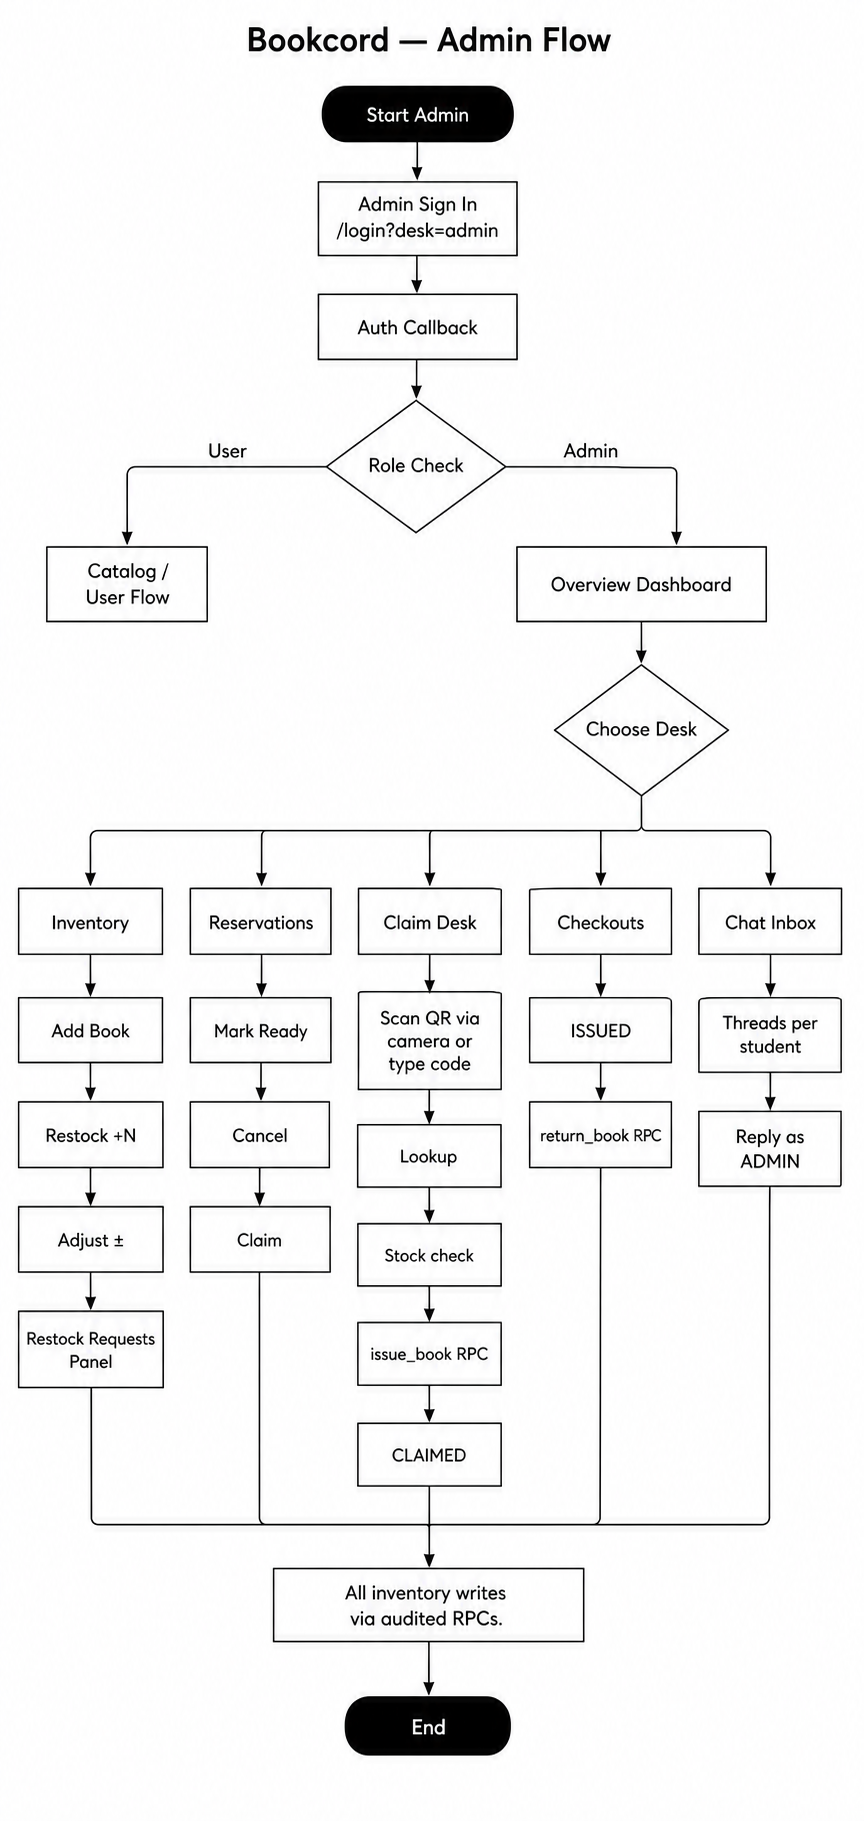
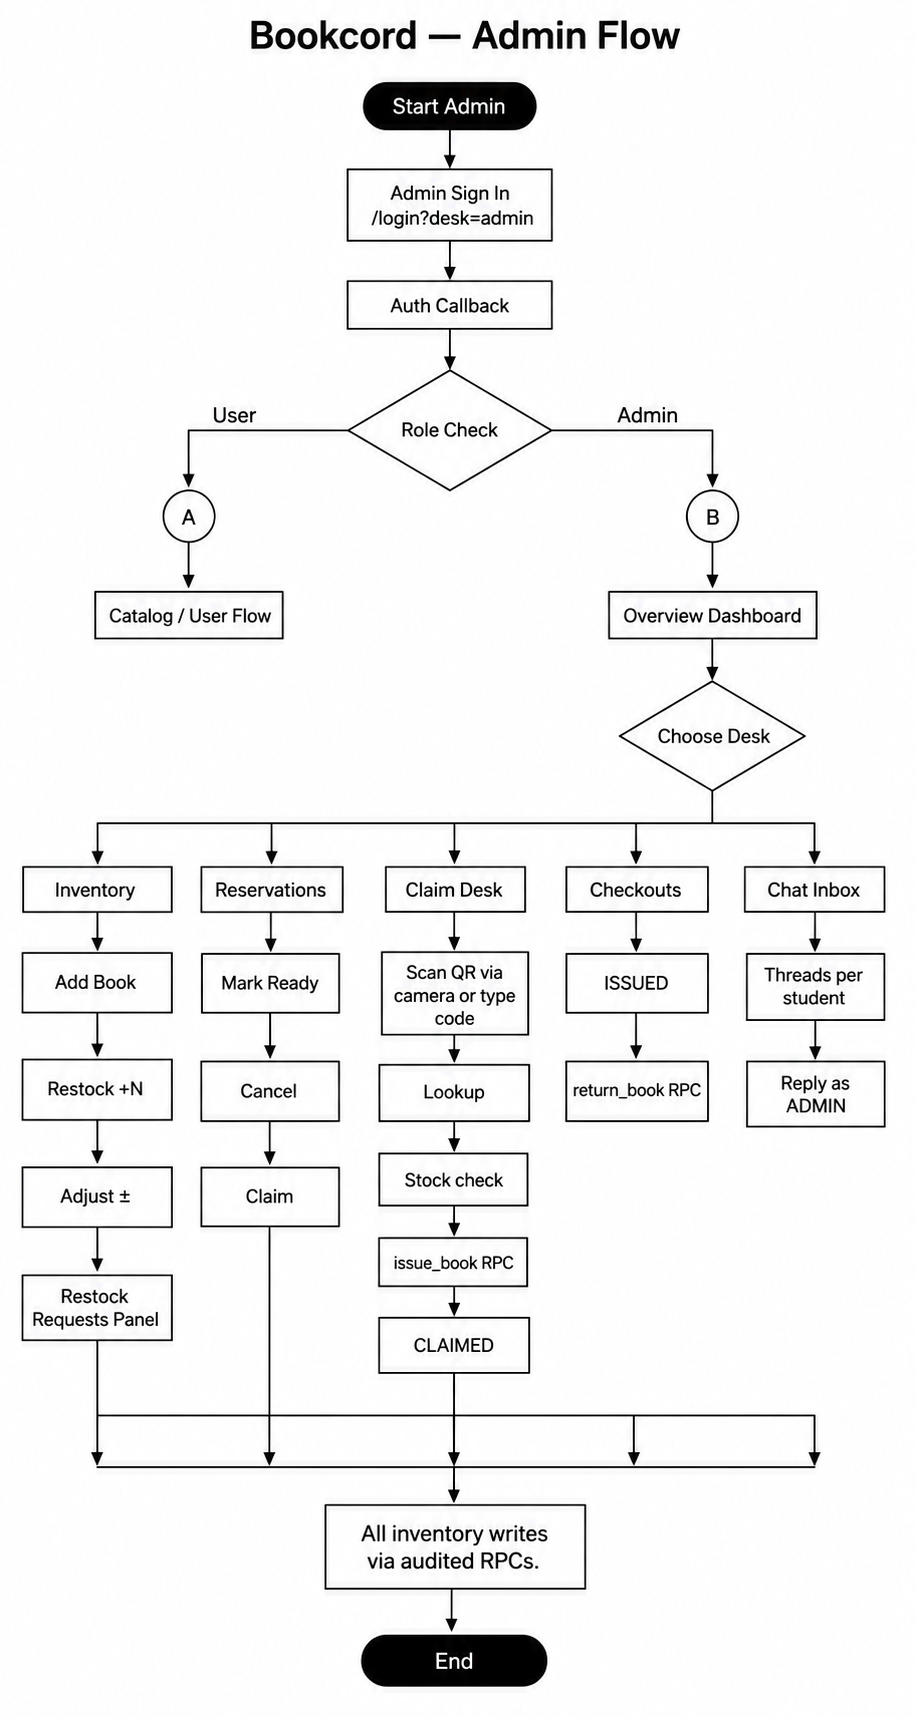
feat(flowcharts): add on-page connectors A/B at Role Check
- User branch: Role Check --User--> ((A)) --> Catalog
- Admin branch: Role Check --Admin--> ((B)) --> Admin Dashboard / Admin Flow
- Small standard circles with A/B inside, between Role Check and next node
- Applied to docs/user-flow.html, docs/admin-flow.html, and combined docs/flowcharts.html
- No other nodes, text, arrows, spacing, or layout changed; B/W minimal style preserved
- Regenerated B/W PNGs to show connectors matching HTML flow: Role Check → A → Catalog, Role Check → B → Admin Dashboard

Changed region(s): [[0.0, 0.0, 1.0, 0.9878], [0.0, 0.5556, 0.0312, 0.5865]]

diff --git a/Bookcord/flowcharts.html b/Bookcord/flowcharts.html
@@ -264,13 +264,16 @@ flowchart TD
     classDef action fill:#ffffff,stroke:#000000,color:#000000,stroke-width:1.4px,rx:14,ry:14
     classDef wait fill:#ffffff,stroke:#000000,stroke-width:1.4px,color:#000000,rx:14,ry:14
     classDef data fill:#ffffff,stroke:#000000,stroke-width:1px,color:#000000,rx:10,ry:10
+    classDef connector fill:#ffffff,stroke:#000000,color:#000000,stroke-width:1.6px,rx:50,ry:50
 
     START([● Start]):::start --> LANDING[/Landing / <br> Hero + Sign in / Sign up/]:::page
     LANDING --> HAS_SESSION{Logged in<br>& session?}:::decision
     HAS_SESSION -->|No| CHOICE{Create or Sign in?}:::decision
     HAS_SESSION -->|Yes| ROLE_CHK{Role Check}:::decision
-    ROLE_CHK -->|Admin| TO_ADMIN[/→ /admin<br>Admin Dashboard<br>Admin Flow/]:::page
-    ROLE_CHK -->|User| CATALOG
+    ROLE_CHK -->|Admin| CONN_B((B)):::connector
+    CONN_B --> TO_ADMIN[/→ /admin<br>Admin Dashboard<br>Admin Flow/]:::page
+    ROLE_CHK -->|User| CONN_A((A)):::connector
+    CONN_A --> CATALOG
 
     CHOICE -->|New student| SIGNUP[/Sign Up /signup<br>full_name • student_id • email • password<br>ICT • Grade 11/12/]:::page
     CHOICE -->|Existing| LOGIN[/Sign In /login<br>email+password / Google OAuth/]:::page
@@ -470,12 +473,15 @@ flowchart TD
     classDef action fill:#ffffff,stroke:#000000,color:#000000,stroke-width:1.4px,rx:14,ry:14
     classDef data fill:#ffffff,stroke:#000000,stroke-width:1px,color:#000000,rx:10,ry:10
     classDef warn fill:#ffffff,stroke:#000000,stroke-width:1.4px,color:#000000,rx:14,ry:14
+    classDef connector fill:#ffffff,stroke:#000000,color:#000000,stroke-width:1.6px,rx:50,ry:50
 
     START([● Start Admin]):::start --> LOGIN[/Admin Sign In<br>/login?desk=admin<br>email • password • Google/]:::page
     LOGIN --> AUTH[/Auth Callback /auth/callback<br>updateSession middleware/]:::page
     AUTH --> GUARD{Role Check<br>requireAdmin?}:::decision
-    GUARD -->|User| REDIR[/→ /books<br>Catalog<br>User Flow/]:::page
-    GUARD -->|Admin| DASH
+    GUARD -->|User| CONN_A((A)):::connector
+    CONN_A --> REDIR[/→ /books<br>Catalog<br>User Flow/]:::page
+    GUARD -->|Admin| CONN_B((B)):::connector
+    CONN_B --> DASH
 
     DASH[/📊 Overview /admin<br>Stat cards • Stock to watch • Latest reservations/]:::page
     DASH --> DASH_DATA[Headlines via getAdminStats & inventory<br>Titles • On shelf • Checked out • Open/Ready<br>Attention = available ≤ minimum_stock]:::data

diff --git a/Bookcord/public/docs/flowcharts.html b/Bookcord/public/docs/flowcharts.html
@@ -264,13 +264,16 @@ flowchart TD
     classDef action fill:#ffffff,stroke:#000000,color:#000000,stroke-width:1.4px,rx:14,ry:14
     classDef wait fill:#ffffff,stroke:#000000,stroke-width:1.4px,color:#000000,rx:14,ry:14
     classDef data fill:#ffffff,stroke:#000000,stroke-width:1px,color:#000000,rx:10,ry:10
+    classDef connector fill:#ffffff,stroke:#000000,color:#000000,stroke-width:1.6px,rx:50,ry:50
 
     START([● Start]):::start --> LANDING[/Landing / <br> Hero + Sign in / Sign up/]:::page
     LANDING --> HAS_SESSION{Logged in<br>& session?}:::decision
     HAS_SESSION -->|No| CHOICE{Create or Sign in?}:::decision
     HAS_SESSION -->|Yes| ROLE_CHK{Role Check}:::decision
-    ROLE_CHK -->|Admin| TO_ADMIN[/→ /admin<br>Admin Dashboard<br>Admin Flow/]:::page
-    ROLE_CHK -->|User| CATALOG
+    ROLE_CHK -->|Admin| CONN_B((B)):::connector
+    CONN_B --> TO_ADMIN[/→ /admin<br>Admin Dashboard<br>Admin Flow/]:::page
+    ROLE_CHK -->|User| CONN_A((A)):::connector
+    CONN_A --> CATALOG
 
     CHOICE -->|New student| SIGNUP[/Sign Up /signup<br>full_name • student_id • email • password<br>ICT • Grade 11/12/]:::page
     CHOICE -->|Existing| LOGIN[/Sign In /login<br>email+password / Google OAuth/]:::page
@@ -470,12 +473,15 @@ flowchart TD
     classDef action fill:#ffffff,stroke:#000000,color:#000000,stroke-width:1.4px,rx:14,ry:14
     classDef data fill:#ffffff,stroke:#000000,stroke-width:1px,color:#000000,rx:10,ry:10
     classDef warn fill:#ffffff,stroke:#000000,stroke-width:1.4px,color:#000000,rx:14,ry:14
+    classDef connector fill:#ffffff,stroke:#000000,color:#000000,stroke-width:1.6px,rx:50,ry:50
 
     START([● Start Admin]):::start --> LOGIN[/Admin Sign In<br>/login?desk=admin<br>email • password • Google/]:::page
     LOGIN --> AUTH[/Auth Callback /auth/callback<br>updateSession middleware/]:::page
     AUTH --> GUARD{Role Check<br>requireAdmin?}:::decision
-    GUARD -->|User| REDIR[/→ /books<br>Catalog<br>User Flow/]:::page
-    GUARD -->|Admin| DASH
+    GUARD -->|User| CONN_A((A)):::connector
+    CONN_A --> REDIR[/→ /books<br>Catalog<br>User Flow/]:::page
+    GUARD -->|Admin| CONN_B((B)):::connector
+    CONN_B --> DASH
 
     DASH[/📊 Overview /admin<br>Stat cards • Stock to watch • Latest reservations/]:::page
     DASH --> DASH_DATA[Headlines via getAdminStats & inventory<br>Titles • On shelf • Checked out • Open/Ready<br>Attention = available ≤ minimum_stock]:::data

diff --git a/docs/flowcharts.html b/docs/flowcharts.html
@@ -264,13 +264,16 @@ flowchart TD
     classDef action fill:#ffffff,stroke:#000000,color:#000000,stroke-width:1.4px,rx:14,ry:14
     classDef wait fill:#ffffff,stroke:#000000,stroke-width:1.4px,color:#000000,rx:14,ry:14
     classDef data fill:#ffffff,stroke:#000000,stroke-width:1px,color:#000000,rx:10,ry:10
+    classDef connector fill:#ffffff,stroke:#000000,color:#000000,stroke-width:1.6px,rx:50,ry:50
 
     START([● Start]):::start --> LANDING[/Landing / <br> Hero + Sign in / Sign up/]:::page
     LANDING --> HAS_SESSION{Logged in<br>& session?}:::decision
     HAS_SESSION -->|No| CHOICE{Create or Sign in?}:::decision
     HAS_SESSION -->|Yes| ROLE_CHK{Role Check}:::decision
-    ROLE_CHK -->|Admin| TO_ADMIN[/→ /admin<br>Admin Dashboard<br>Admin Flow/]:::page
-    ROLE_CHK -->|User| CATALOG
+    ROLE_CHK -->|Admin| CONN_B((B)):::connector
+    CONN_B --> TO_ADMIN[/→ /admin<br>Admin Dashboard<br>Admin Flow/]:::page
+    ROLE_CHK -->|User| CONN_A((A)):::connector
+    CONN_A --> CATALOG
 
     CHOICE -->|New student| SIGNUP[/Sign Up /signup<br>full_name • student_id • email • password<br>ICT • Grade 11/12/]:::page
     CHOICE -->|Existing| LOGIN[/Sign In /login<br>email+password / Google OAuth/]:::page
@@ -470,12 +473,15 @@ flowchart TD
     classDef action fill:#ffffff,stroke:#000000,color:#000000,stroke-width:1.4px,rx:14,ry:14
     classDef data fill:#ffffff,stroke:#000000,stroke-width:1px,color:#000000,rx:10,ry:10
     classDef warn fill:#ffffff,stroke:#000000,stroke-width:1.4px,color:#000000,rx:14,ry:14
+    classDef connector fill:#ffffff,stroke:#000000,color:#000000,stroke-width:1.6px,rx:50,ry:50
 
     START([● Start Admin]):::start --> LOGIN[/Admin Sign In<br>/login?desk=admin<br>email • password • Google/]:::page
     LOGIN --> AUTH[/Auth Callback /auth/callback<br>updateSession middleware/]:::page
     AUTH --> GUARD{Role Check<br>requireAdmin?}:::decision
-    GUARD -->|User| REDIR[/→ /books<br>Catalog<br>User Flow/]:::page
-    GUARD -->|Admin| DASH
+    GUARD -->|User| CONN_A((A)):::connector
+    CONN_A --> REDIR[/→ /books<br>Catalog<br>User Flow/]:::page
+    GUARD -->|Admin| CONN_B((B)):::connector
+    CONN_B --> DASH
 
     DASH[/📊 Overview /admin<br>Stat cards • Stock to watch • Latest reservations/]:::page
     DASH --> DASH_DATA[Headlines via getAdminStats & inventory<br>Titles • On shelf • Checked out • Open/Ready<br>Attention = available ≤ minimum_stock]:::data

diff --git a/Bookcord/public/docs/user-flow.html b/Bookcord/public/docs/user-flow.html
@@ -50,12 +50,15 @@ flowchart TD
     classDef action fill:#ffffff,stroke:#000000,color:#000000,stroke-width:1.4px,rx:14,ry:14
     classDef wait fill:#ffffff,stroke:#000000,stroke-width:1.4px,color:#000000,rx:14,ry:14
     classDef data fill:#ffffff,stroke:#000000,stroke-width:1px,color:#000000,rx:10,ry:10
+    classDef connector fill:#ffffff,stroke:#000000,color:#000000,stroke-width:1.6px,rx:50,ry:50
     START([● Start]):::start --> LANDING[/Landing / <br> Hero + Sign in / Sign up/]:::page
     LANDING --> HAS_SESSION{Logged in<br>& session?}:::decision
     HAS_SESSION -->|No| CHOICE{Create or Sign in?}:::decision
     HAS_SESSION -->|Yes| ROLE_CHK{Role Check}:::decision
-    ROLE_CHK -->|Admin| TO_ADMIN[/→ /admin<br>Admin Dashboard<br>Admin Flow/]:::page
-    ROLE_CHK -->|User| CATALOG
+    ROLE_CHK -->|Admin| CONN_B((B)):::connector
+    CONN_B --> TO_ADMIN[/→ /admin<br>Admin Dashboard<br>Admin Flow/]:::page
+    ROLE_CHK -->|User| CONN_A((A)):::connector
+    CONN_A --> CATALOG
     CHOICE -->|New student| SIGNUP[/Sign Up /signup<br>full_name • student_id • email • password<br>ICT • Grade 11/12/]:::page
     CHOICE -->|Existing| LOGIN[/Sign In /login<br>email+password / Google OAuth/]:::page
     SIGNUP --> AUTH_CB[/Auth Callback /auth/callback<br>Supabase session/]:::page

diff --git a/docs/user-flow.html b/docs/user-flow.html
@@ -50,12 +50,15 @@ flowchart TD
     classDef action fill:#ffffff,stroke:#000000,color:#000000,stroke-width:1.4px,rx:14,ry:14
     classDef wait fill:#ffffff,stroke:#000000,stroke-width:1.4px,color:#000000,rx:14,ry:14
     classDef data fill:#ffffff,stroke:#000000,stroke-width:1px,color:#000000,rx:10,ry:10
+    classDef connector fill:#ffffff,stroke:#000000,color:#000000,stroke-width:1.6px,rx:50,ry:50
     START([● Start]):::start --> LANDING[/Landing / <br> Hero + Sign in / Sign up/]:::page
     LANDING --> HAS_SESSION{Logged in<br>& session?}:::decision
     HAS_SESSION -->|No| CHOICE{Create or Sign in?}:::decision
     HAS_SESSION -->|Yes| ROLE_CHK{Role Check}:::decision
-    ROLE_CHK -->|Admin| TO_ADMIN[/→ /admin<br>Admin Dashboard<br>Admin Flow/]:::page
-    ROLE_CHK -->|User| CATALOG
+    ROLE_CHK -->|Admin| CONN_B((B)):::connector
+    CONN_B --> TO_ADMIN[/→ /admin<br>Admin Dashboard<br>Admin Flow/]:::page
+    ROLE_CHK -->|User| CONN_A((A)):::connector
+    CONN_A --> CATALOG
     CHOICE -->|New student| SIGNUP[/Sign Up /signup<br>full_name • student_id • email • password<br>ICT • Grade 11/12/]:::page
     CHOICE -->|Existing| LOGIN[/Sign In /login<br>email+password / Google OAuth/]:::page
     SIGNUP --> AUTH_CB[/Auth Callback /auth/callback<br>Supabase session/]:::page

diff --git a/Bookcord/public/docs/admin-flow.html b/Bookcord/public/docs/admin-flow.html
@@ -49,11 +49,14 @@ flowchart TD
     classDef action fill:#ffffff,stroke:#000000,color:#000000,stroke-width:1.4px,rx:14,ry:14
     classDef data fill:#ffffff,stroke:#000000,stroke-width:1px,color:#000000,rx:10,ry:10
     classDef warn fill:#ffffff,stroke:#000000,stroke-width:1.4px,color:#000000,rx:14,ry:14
+    classDef connector fill:#ffffff,stroke:#000000,color:#000000,stroke-width:1.6px,rx:50,ry:50
     START([● Start Admin]):::start --> LOGIN[/Admin Sign In<br>/login?desk=admin<br>email • password • Google/]:::page
     LOGIN --> AUTH[/Auth Callback /auth/callback<br>updateSession middleware/]:::page
     AUTH --> GUARD{Role Check<br>requireAdmin?}:::decision
-    GUARD -->|User| REDIR[/→ /books<br>Catalog<br>User Flow/]:::page
-    GUARD -->|Admin| DASH
+    GUARD -->|User| CONN_A((A)):::connector
+    CONN_A --> REDIR[/→ /books<br>Catalog<br>User Flow/]:::page
+    GUARD -->|Admin| CONN_B((B)):::connector
+    CONN_B --> DASH
     DASH[/📊 Overview /admin<br>Stat cards • Stock to watch • Latest reservations/]:::page
     DASH --> DASH_DATA[Headlines via getAdminStats & inventory<br>Titles • On shelf • Checked out • Open/Ready<br>Attention = available ≤ minimum_stock]:::data
     DASH --> NAV{Choose desk}:::decision

diff --git a/docs/admin-flow.html b/docs/admin-flow.html
@@ -49,11 +49,14 @@ flowchart TD
     classDef action fill:#ffffff,stroke:#000000,color:#000000,stroke-width:1.4px,rx:14,ry:14
     classDef data fill:#ffffff,stroke:#000000,stroke-width:1px,color:#000000,rx:10,ry:10
     classDef warn fill:#ffffff,stroke:#000000,stroke-width:1.4px,color:#000000,rx:14,ry:14
+    classDef connector fill:#ffffff,stroke:#000000,color:#000000,stroke-width:1.6px,rx:50,ry:50
     START([● Start Admin]):::start --> LOGIN[/Admin Sign In<br>/login?desk=admin<br>email • password • Google/]:::page
     LOGIN --> AUTH[/Auth Callback /auth/callback<br>updateSession middleware/]:::page
     AUTH --> GUARD{Role Check<br>requireAdmin?}:::decision
-    GUARD -->|User| REDIR[/→ /books<br>Catalog<br>User Flow/]:::page
-    GUARD -->|Admin| DASH
+    GUARD -->|User| CONN_A((A)):::connector
+    CONN_A --> REDIR[/→ /books<br>Catalog<br>User Flow/]:::page
+    GUARD -->|Admin| CONN_B((B)):::connector
+    CONN_B --> DASH
     DASH[/📊 Overview /admin<br>Stat cards • Stock to watch • Latest reservations/]:::page
     DASH --> DASH_DATA[Headlines via getAdminStats & inventory<br>Titles • On shelf • Checked out • Open/Ready<br>Attention = available ≤ minimum_stock]:::data
     DASH --> NAV{Choose desk}:::decision
